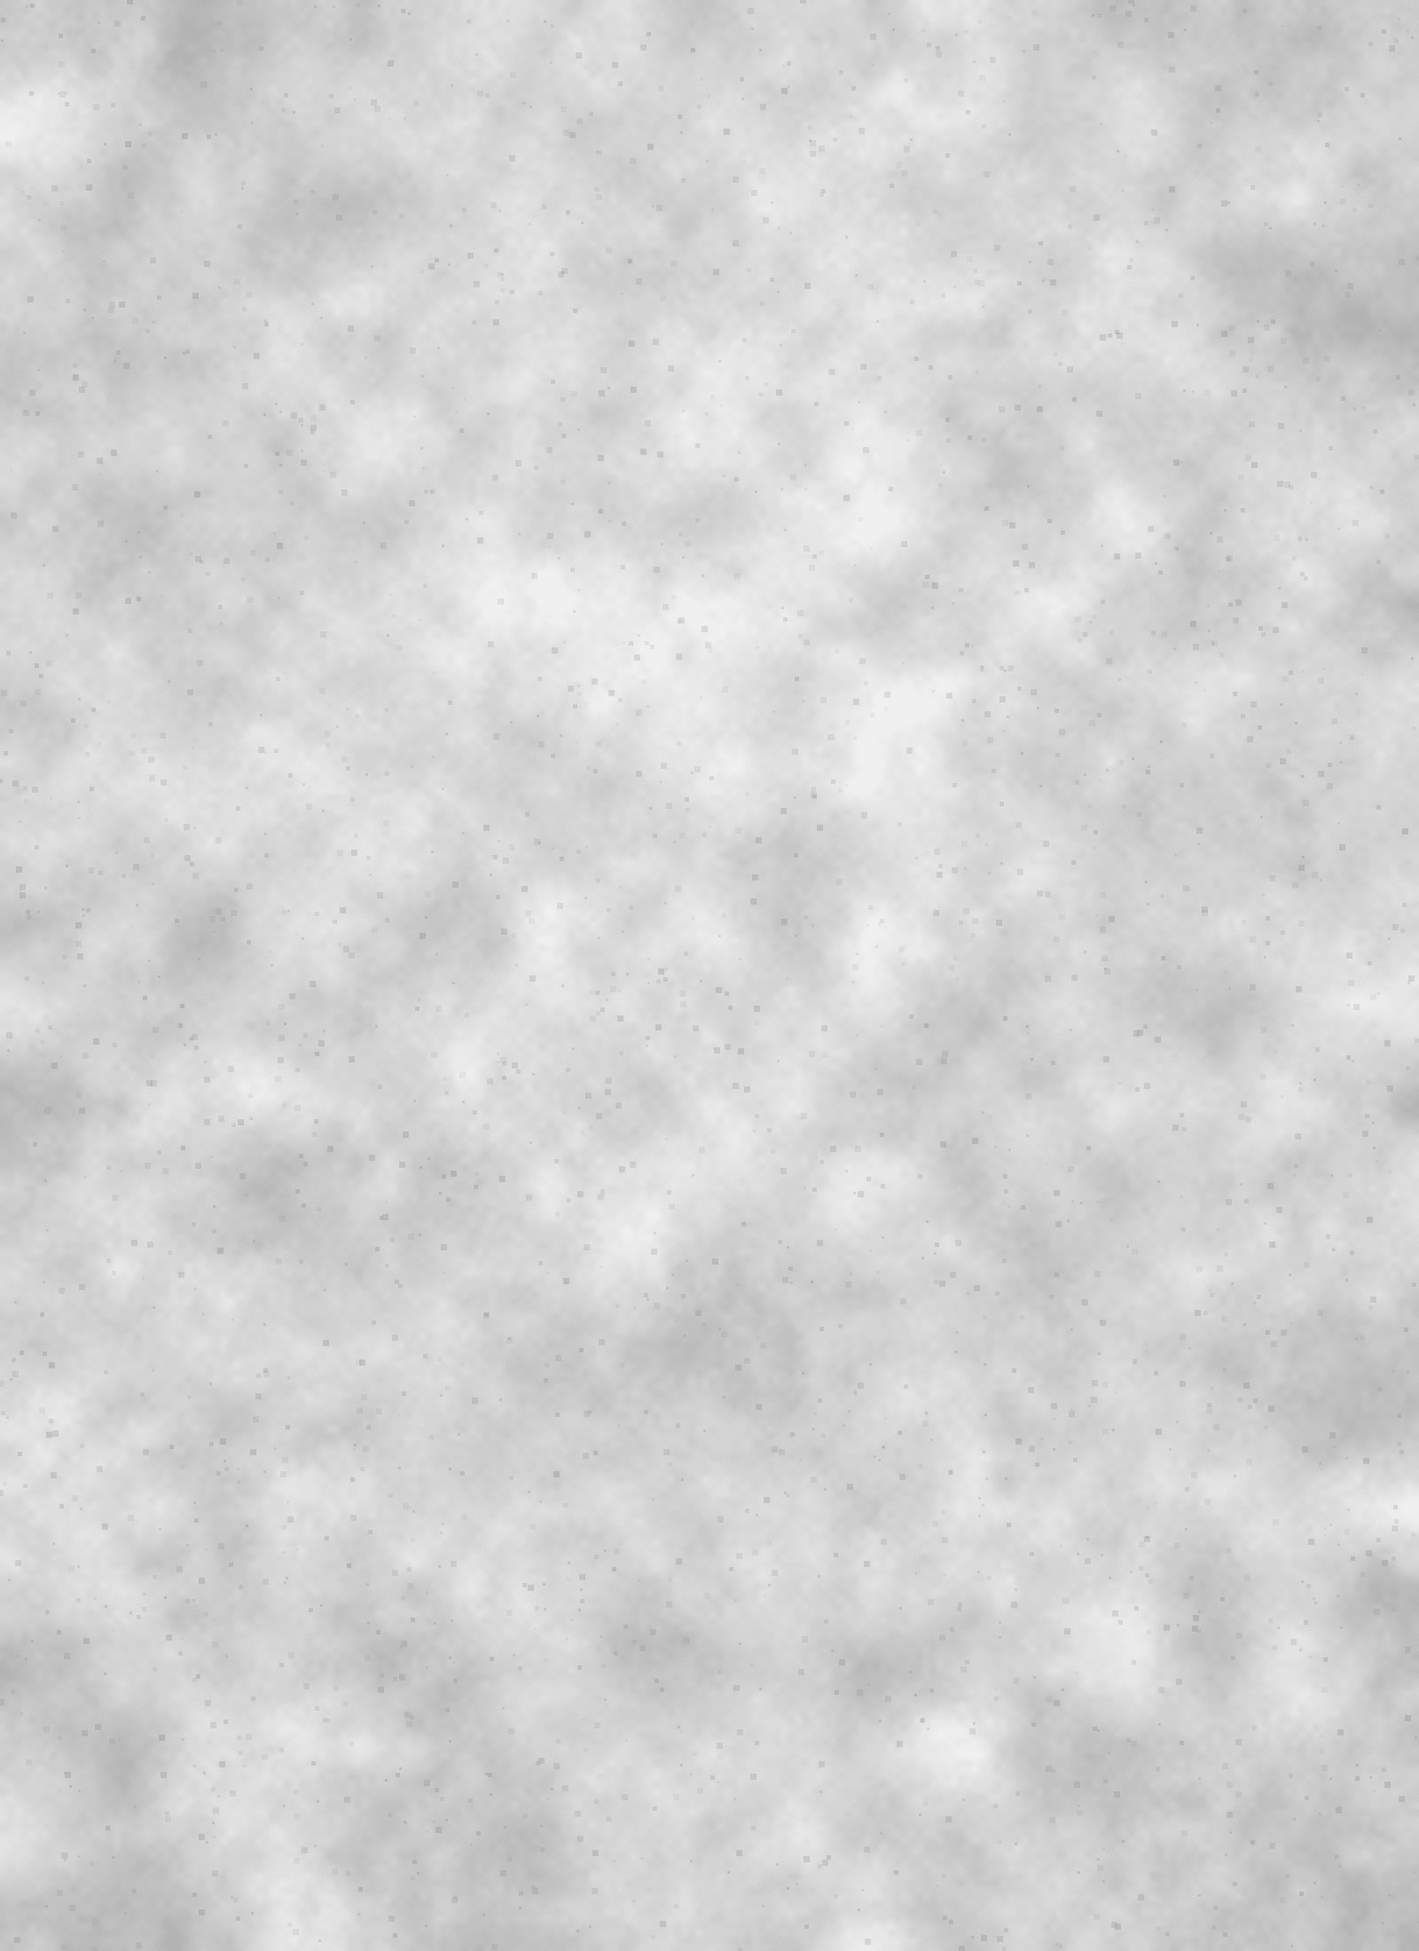
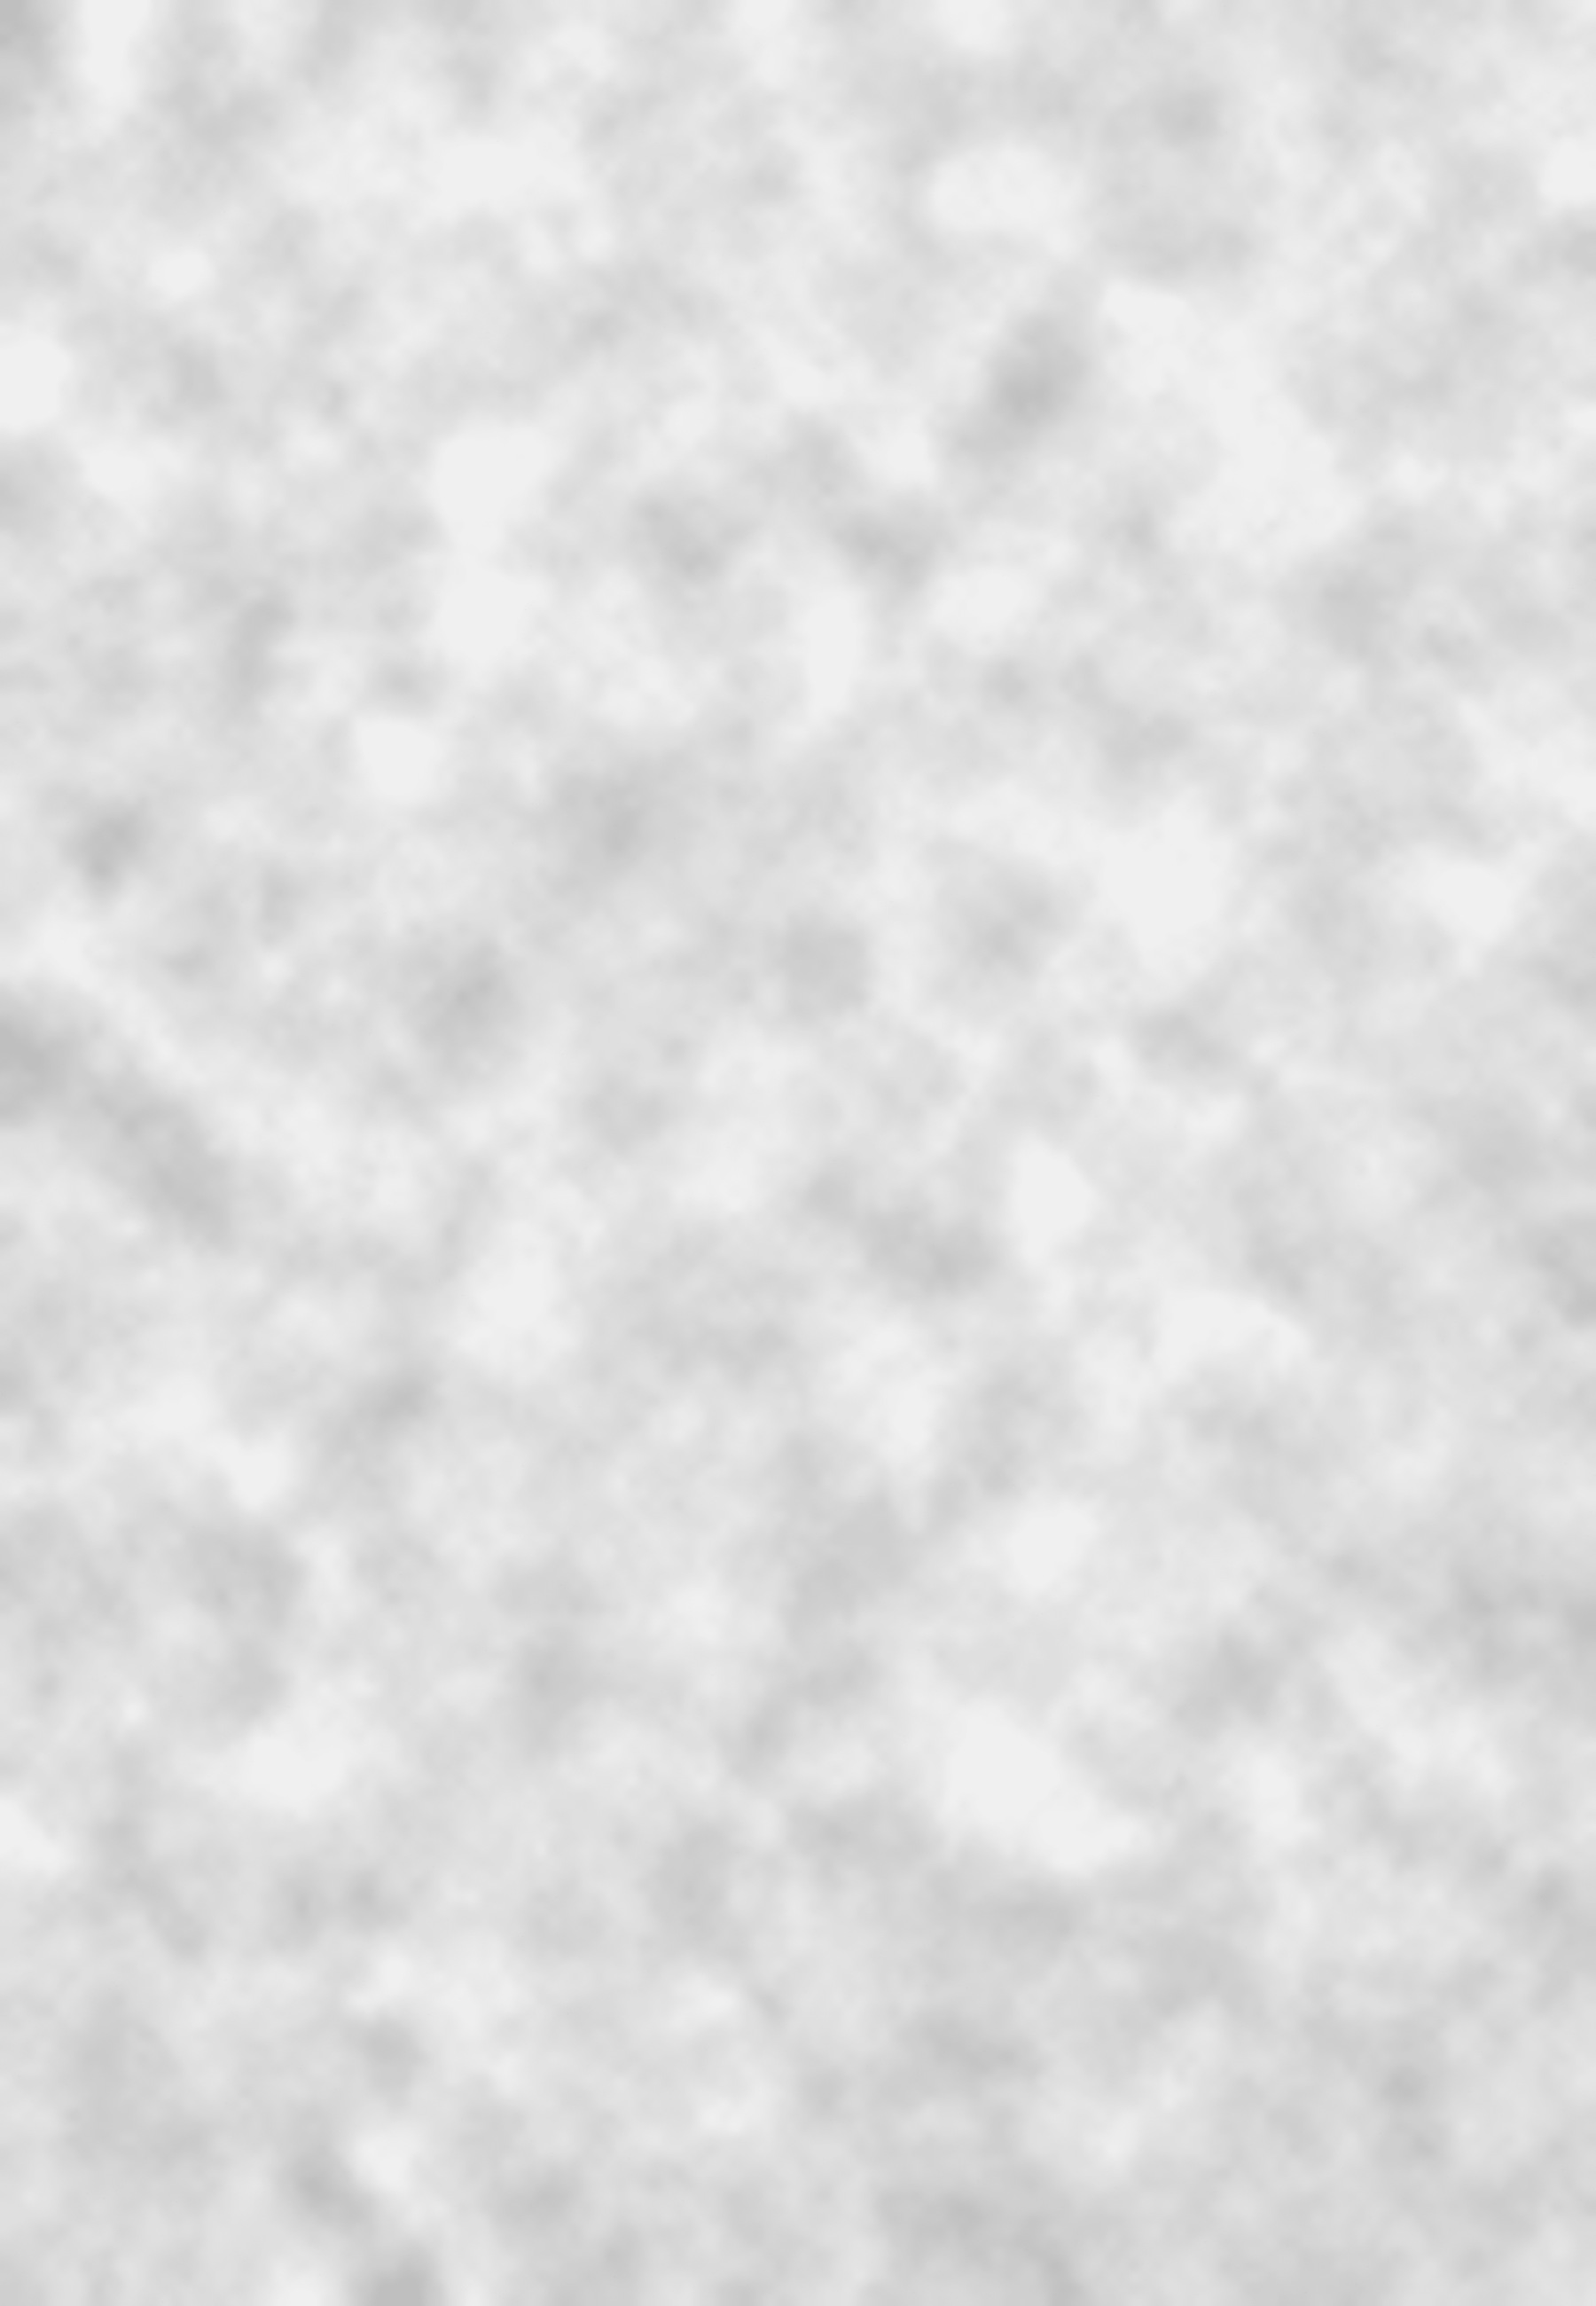
Add files via upload

diff --git a/index.html b/index.html
@@ -2,21 +2,20 @@
 <html lang="ja">
 <head>
   <meta charset="utf-8">
-  <meta name="viewport" content="width=device-width,initial-scale=1,viewport-fit=cover">
-  <meta name="theme-color" content="#d8d8d8">
+  <meta name="viewport" content="width=device-width, initial-scale=1, viewport-fit=cover">
+  <meta name="theme-color" content="#d7d7d7">
   <meta name="description" content="株式会社レンビス 公式リンクページ">
   <title>株式会社レンビス | Official Links</title>
 
   <link rel="preconnect" href="https://cdnjs.cloudflare.com">
-  <link rel="stylesheet"
-        href="https://cdnjs.cloudflare.com/ajax/libs/font-awesome/6.5.2/css/all.min.css">
+  <link rel="stylesheet" href="https://cdnjs.cloudflare.com/ajax/libs/font-awesome/6.5.2/css/all.min.css">
 
   <style>
     :root{
       --text:#171717;
-      --muted:#747474;
-      --card:rgba(255,255,255,.94);
-      --shadow:0 12px 30px rgba(0,0,0,.16);
+      --muted:#777;
+      --card:rgba(255,255,255,.92);
+      --shadow:0 12px 30px rgba(0,0,0,.13);
     }
 
     *{box-sizing:border-box}
@@ -26,35 +25,35 @@
     body{
       margin:0;
       min-height:100vh;
-      padding:clamp(22px,5vw,54px) 14px 36px;
+      padding:36px 14px 30px;
       color:var(--text);
       font-family:-apple-system,BlinkMacSystemFont,"Segoe UI",
                   "Hiragino Kaku Gothic ProN","Yu Gothic","YuGothic",
                   "Noto Sans JP",sans-serif;
       background:
-        linear-gradient(rgba(255,255,255,.14),rgba(255,255,255,.14)),
+        linear-gradient(rgba(255,255,255,.08),rgba(255,255,255,.08)),
         url("background.jpg") center top / cover fixed no-repeat;
     }
 
     .page{
-      width:min(100%,680px);
+      width:min(100%,560px);
       margin:0 auto;
     }
 
     .hero{
       text-align:center;
-      padding:10px 12px 24px;
+      padding:0 8px 26px;
     }
 
-    .logo{
-      width:min(100%,430px);
-      margin:0 auto 18px;
-      padding:10px;
-      background:#fff;
-      box-shadow:0 8px 24px rgba(0,0,0,.10);
+    .logo-wrap{
+      width:min(100%,360px);
+      margin:0 auto 16px;
+      padding:8px;
+      background:rgba(255,255,255,.96);
+      box-shadow:0 10px 26px rgba(0,0,0,.10);
     }
 
-    .logo img{
+    .logo-wrap img{
       display:block;
       width:100%;
       height:auto;
@@ -62,11 +61,11 @@
 
     .tagline{
       margin:0;
-      font-size:clamp(13px,3.7vw,16px);
-      line-height:1.75;
+      font-size:15px;
+      line-height:1.7;
       font-weight:700;
-      letter-spacing:.05em;
-      text-shadow:0 1px 0 rgba(255,255,255,.75);
+      letter-spacing:.04em;
+      text-shadow:0 1px 0 rgba(255,255,255,.85);
     }
 
     .links{
@@ -74,41 +73,45 @@
       gap:12px;
     }
 
-    .link{
+    .link-card{
       display:grid;
-      grid-template-columns:54px 1fr 22px;
+      grid-template-columns:50px 1fr 20px;
       align-items:center;
-      gap:14px;
-      min-height:78px;
-      padding:13px 17px;
+      gap:13px;
+      min-height:76px;
+      padding:12px 15px;
       color:var(--text);
       text-decoration:none;
       background:var(--card);
-      border:1px solid rgba(255,255,255,.92);
+      border:1px solid rgba(255,255,255,.9);
+      border-radius:14px;
       box-shadow:var(--shadow);
+      backdrop-filter:blur(8px);
+      -webkit-backdrop-filter:blur(8px);
       transition:transform .18s ease, box-shadow .18s ease;
     }
 
-    .link:hover{
+    .link-card:hover{
       transform:translateY(-2px);
-      box-shadow:0 16px 34px rgba(0,0,0,.19);
+      box-shadow:0 16px 34px rgba(0,0,0,.17);
     }
 
-    .link:active{transform:translateY(0)}
+    .link-card:active{transform:translateY(0)}
 
     .icon{
-      width:48px;
-      height:48px;
+      width:46px;
+      height:46px;
       display:grid;
       place-items:center;
-      border-radius:13px;
-      font-size:25px;
+      border-radius:12px;
+      font-size:24px;
       background:#fff;
+      box-shadow:inset 0 0 0 1px rgba(0,0,0,.04);
     }
 
     .website{color:#1877f2}
-    .phone{color:#23b45d}
-    .map{color:#ea4335}
+    .phone{color:#22b45d}
+    .maps{color:#ea4335}
 
     .tiktok{
       color:#111;
@@ -124,7 +127,7 @@
 
     .title{
       display:block;
-      font-size:clamp(16px,4.4vw,20px);
+      font-size:18px;
       font-weight:800;
       letter-spacing:.01em;
     }
@@ -135,34 +138,37 @@
       color:var(--muted);
       font-size:12px;
       font-weight:600;
-      line-height:1.45;
+      line-height:1.4;
     }
 
     .arrow{
-      color:#888;
-      font-size:19px;
+      color:#8a8a8a;
+      font-size:18px;
       text-align:right;
     }
 
     footer{
-      padding:30px 8px 4px;
+      padding:28px 8px 4px;
       text-align:center;
       color:#666;
       font-size:11px;
       letter-spacing:.06em;
-      text-shadow:0 1px 0 rgba(255,255,255,.8);
+      text-shadow:0 1px 0 rgba(255,255,255,.85);
     }
 
     @media(max-width:460px){
-      body{padding-left:10px;padding-right:10px}
-      .hero{padding-left:4px;padding-right:4px}
-      .link{
-        grid-template-columns:49px 1fr 18px;
+      body{padding:24px 10px 26px}
+      .page{width:100%}
+      .logo-wrap{width:min(100%,320px)}
+      .link-card{
+        grid-template-columns:46px 1fr 18px;
         gap:11px;
-        min-height:72px;
+        min-height:70px;
         padding:11px 13px;
       }
-      .icon{width:44px;height:44px;font-size:23px}
+      .icon{width:42px;height:42px;font-size:22px}
+      .title{font-size:17px}
+      .tagline{font-size:14px}
     }
   </style>
 </head>
@@ -170,14 +176,14 @@
 <body>
   <main class="page">
     <header class="hero">
-      <div class="logo">
+      <div class="logo-wrap">
         <img src="renvis-logo.jpg" alt="株式会社レンビス RENVIS ロゴ">
       </div>
       <p class="tagline">建機用アタッチメントの<br>レンタル・修理・販売・管理</p>
     </header>
 
     <section class="links" aria-label="公式リンク">
-      <a class="link" href="https://renvis.co.jp/" target="_blank" rel="noopener noreferrer">
+      <a class="link-card" href="https://renvis.co.jp/" target="_blank" rel="noopener noreferrer">
         <span class="icon website"><i class="fa-solid fa-globe"></i></span>
         <span>
           <span class="title">Official Website</span>
@@ -186,7 +192,7 @@
         <span class="arrow"><i class="fa-solid fa-chevron-right"></i></span>
       </a>
 
-      <a class="link" href="https://lite.tiktok.com/t/ZS9Mrt91CpgWw-OxUeo/" target="_blank" rel="noopener noreferrer">
+      <a class="link-card" href="https://lite.tiktok.com/t/ZS9Mrt91CpgWw-OxUeo/" target="_blank" rel="noopener noreferrer">
         <span class="icon tiktok"><i class="fa-brands fa-tiktok"></i></span>
         <span>
           <span class="title">TikTok</span>
@@ -195,7 +201,7 @@
         <span class="arrow"><i class="fa-solid fa-chevron-right"></i></span>
       </a>
 
-      <a class="link" href="https://www.instagram.com/renvisrenvis?igsh=MW0ybzBxNTJ4ZWdoaQ==" target="_blank" rel="noopener noreferrer">
+      <a class="link-card" href="https://www.instagram.com/renvisrenvis?igsh=MW0ybzBxNTJ4ZWdoaQ==" target="_blank" rel="noopener noreferrer">
         <span class="icon instagram"><i class="fa-brands fa-instagram"></i></span>
         <span>
           <span class="title">Instagram</span>
@@ -204,7 +210,7 @@
         <span class="arrow"><i class="fa-solid fa-chevron-right"></i></span>
       </a>
 
-      <a class="link" href="tel:0946428311">
+      <a class="link-card" href="tel:0946428311">
         <span class="icon phone"><i class="fa-solid fa-phone"></i></span>
         <span>
           <span class="title">電話する</span>
@@ -213,10 +219,10 @@
         <span class="arrow"><i class="fa-solid fa-chevron-right"></i></span>
       </a>
 
-      <a class="link"
+      <a class="link-card"
          href="https://www.google.com/maps/search/?api=1&query=%E7%A6%8F%E5%B2%A1%E7%9C%8C%E6%9C%9D%E5%80%89%E9%83%A1%E7%AD%91%E5%89%8D%E7%94%BA%E6%9D%BE%E5%BB%B6807-3"
          target="_blank" rel="noopener noreferrer">
-        <span class="icon map"><i class="fa-solid fa-location-dot"></i></span>
+        <span class="icon maps"><i class="fa-solid fa-location-dot"></i></span>
         <span>
           <span class="title">レンタルヤード</span>
           <span class="sub">福岡県朝倉郡筑前町松延807-3</span>
